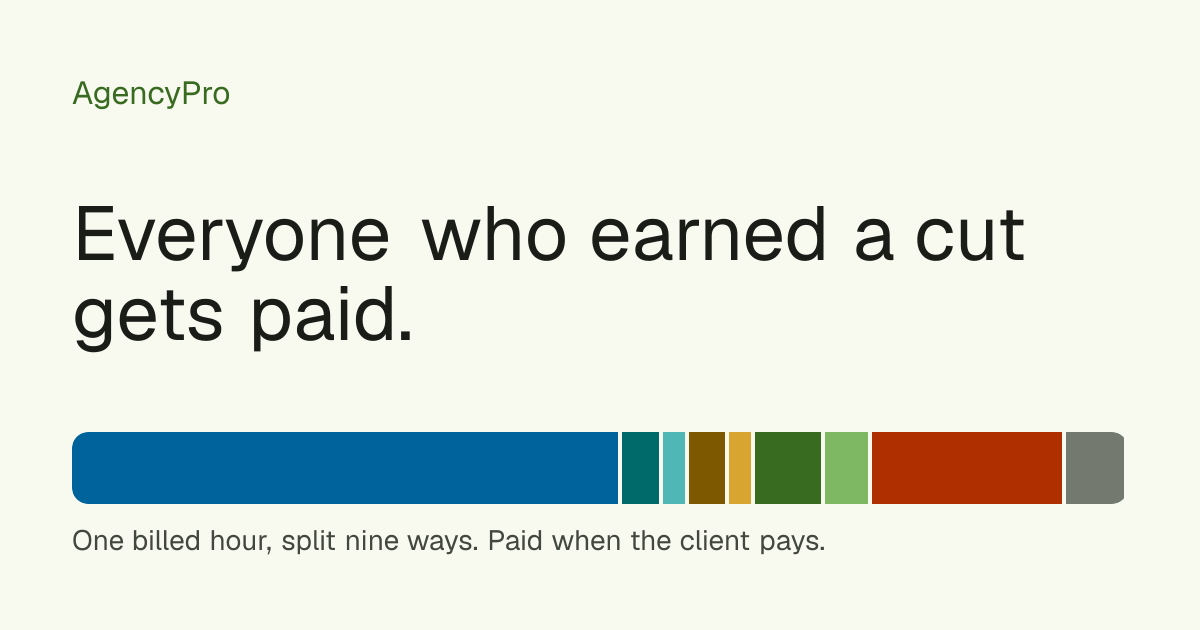
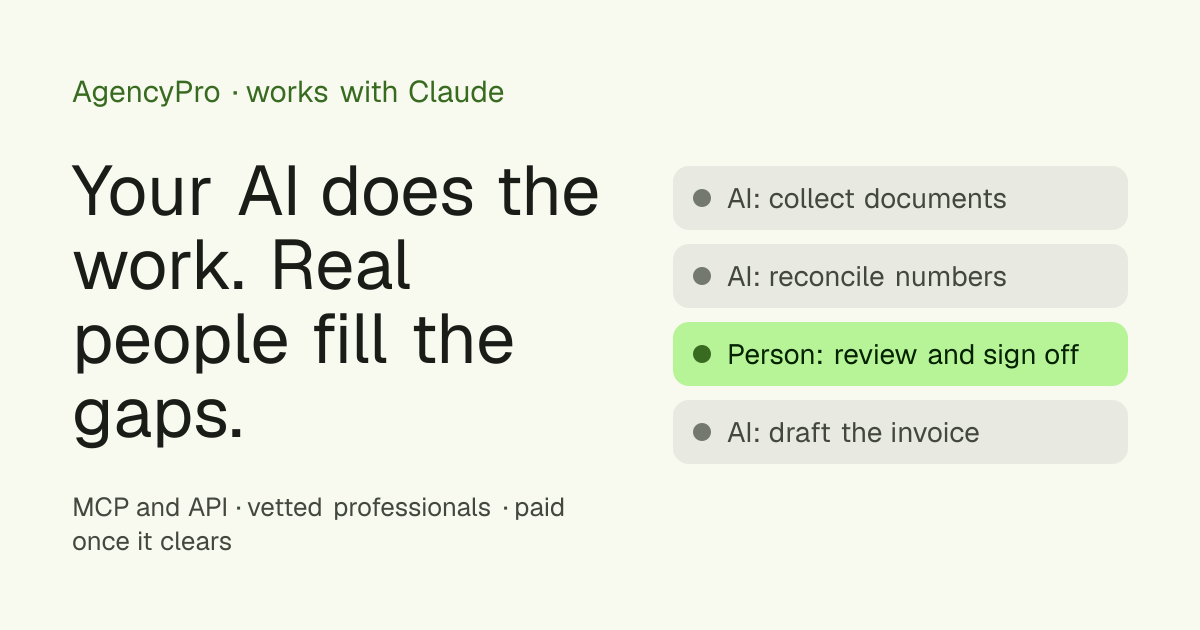
Round 3: positioning around Claude (MCP), the API and real people for human steps

diff --git a/src/app/page.tsx b/src/app/page.tsx
@@ -1,4 +1,5 @@
 import { HeroSplit } from "@/components/hero-split";
+import { WorkflowCard } from "@/components/workflow-card";
 import { MdButton } from "@/components/material";
 import { PayoutPlayground } from "@/components/payout-playground";
 import { STREAMS } from "@/lib/streams";
@@ -12,8 +13,15 @@ const steps = [
   { icon: "check_circle", title: "It clears or it doesn't", body: "If it clears, everyone is paid, for good. If it doesn't, no one is paid and no one owes a thing. You'll never have to pay money back." },
 ];
 
+const humanSteps = [
+  { icon: "send", title: "Your workflow asks", body: "When it reaches a step a person must do, your Claude or your system requests a human step through AgencyPro." },
+  { icon: "badge", title: "A vetted pro takes it", body: "A professional who holds the right credential claims the step and gets the documents and context." },
+  { icon: "fact_check", title: "They decide, on the record", body: "Approve, reject or ask for changes. The decision is recorded with who made it and when." },
+  { icon: "arrow_forward", title: "Your workflow carries on", body: "The answer comes back to your workflow, and the professional's share goes into the same fair payout." },
+];
+
 const perks = [
-  { icon: "handshake", title: "Referrals that pay themselves", body: "Give partners a cut of every hour the client they sent you buys. It's tracked and paid out with no spreadsheets." },
+  { icon: "forum", title: "Bring your own Claude", body: "AgencyPro plugs into the Claude you already use. It acts with your permissions only, and we never run or bill you for the AI." },
   { icon: "visibility_off", title: "Your bench stays yours", body: "Clients see their projects, totals and invoices. Never your team's names, rates or pay." },
   { icon: "verified", title: "Licensed sign-offs, on the record", body: "When a step needs an accountant or attorney, it goes to a real professional and their sign-off is recorded." },
 ];
@@ -37,9 +45,9 @@ export default function Home() {
             AgencyPro
           </a>
           <nav className="md-label-large hidden items-center gap-1 md:flex" aria-label="Sections">
-            <MdButton kind="text" href="#how">How it splits</MdButton>
-            <MdButton kind="text" href="#play">Try it</MdButton>
-            <MdButton kind="text" href="#streams">Who gets paid</MdButton>
+            <MdButton kind="text" href="#humans">Human steps</MdButton>
+            <MdButton kind="text" href="#how">How payouts work</MdButton>
+            <MdButton kind="text" href="#play">Try the split</MdButton>
           </nav>
           <MdButton kind="tonal" href={INVITE} external>Get an invite</MdButton>
         </div>
@@ -49,24 +57,50 @@ export default function Home() {
         <section className="mx-auto grid w-full max-w-6xl items-center gap-12 px-4 pb-20 pt-12 sm:px-6 lg:grid-cols-[1.1fr_1fr] lg:pt-20">
           <div className="min-w-0">
             <p className="md-label-large inline-flex items-center gap-1.5 rounded-lg border border-outline px-3 py-1.5 text-on-surface-variant">
-              <md-icon aria-hidden="true">lock</md-icon> Private beta, by invitation
+              <md-icon aria-hidden="true">hub</md-icon> Works with Claude · MCP and API · Private beta
             </p>
-            <h1 className="md-display-large mt-6 text-balance">Everyone who earned a cut gets paid.</h1>
+            <h1 className="md-display-large mt-6 text-balance">Your AI does the work. Real people fill the gaps.</h1>
             <p className="md-body-large mt-6 max-w-xl text-on-surface-variant text-pretty">
-              AgencyPro splits every billed hour between the people who made it happen: the contractor, the recruiter who found them, the partner who sent the client, your PM and your agency. The client pays one invoice. Every share stays pending until the payment fully clears, then pays out on its own. You&apos;ll never have to pay it back.
+              AgencyPro plugs into Claude through MCP and into your systems through its API. When a workflow reaches a step only a person should do, like a professional review and sign-off, it goes to a vetted human, and the decision comes back on the record. Everyone who worked on it gets paid fairly, and no one ever pays it back.
             </p>
             <div className="mt-8 flex flex-wrap gap-3">
-              <MdButton href="#play" icon="tune">Play with the split</MdButton>
+              <MdButton href="#humans" icon="person_check">See a human step</MdButton>
               <MdButton kind="outlined" href={INVITE} external>Get an invite</MdButton>
             </div>
           </div>
-          <HeroSplit />
+          <WorkflowCard />
         </section>
 
-        <section id="how" className="bg-surface-low py-20">
+        <section id="humans" className="scroll-mt-20 bg-surface-low py-20">
           <div className="mx-auto w-full max-w-6xl px-4 sm:px-6">
-            <Eyebrow>How it splits</Eyebrow>
-            <h2 className="md-display-medium mt-2 max-w-2xl text-balance">Pay-when-paid, for everyone at once.</h2>
+            <Eyebrow>Human steps</Eyebrow>
+            <h2 className="md-display-medium mt-2 max-w-3xl text-balance">When your workflow needs a person, it gets one.</h2>
+            <p className="md-body-large mt-3 max-w-2xl text-on-surface-variant">AI shouldn&apos;t sign off on the books alone. AgencyPro routes those steps to real, vetted professionals and keeps the record.</p>
+            <ol className="mt-10 grid gap-4 sm:grid-cols-2 lg:grid-cols-4">
+              {humanSteps.map((s, i) => (
+                <li key={s.title} className="md-card-outlined flex flex-col gap-3 bg-surface p-6">
+                  <div className="flex items-center justify-between">
+                    <span className="grid size-12 place-items-center rounded-2xl bg-primary-container text-on-primary-container">
+                      <md-icon aria-hidden="true">{s.icon}</md-icon>
+                    </span>
+                    <span className="md-label-large text-on-surface-variant">Step {i + 1}</span>
+                  </div>
+                  <h3 className="md-title-large">{s.title}</h3>
+                  <p className="md-body-medium text-on-surface-variant">{s.body}</p>
+                </li>
+              ))}
+            </ol>
+          </div>
+        </section>
+
+        <section id="how" className="scroll-mt-20 py-20">
+          <div className="mx-auto w-full max-w-6xl px-4 sm:px-6">
+            <Eyebrow>And everyone gets paid fairly</Eyebrow>
+            <h2 className="md-display-medium mt-2 max-w-3xl text-balance">Pending until it clears. Never paid back.</h2>
+            <div className="mt-10 grid items-start gap-8 lg:grid-cols-[1fr_1.1fr]">
+              <p className="md-body-large text-on-surface-variant">Each person who worked on the job, from the contractor to the professional who signed off, gets a share of what the client pays. Every share stays pending until the payment fully clears. Then it clears and everyone is paid, or it doesn&apos;t and no one owes anything.</p>
+              <HeroSplit />
+            </div>
             <ol className="mt-10 grid gap-4 sm:grid-cols-2 lg:grid-cols-4">
               {steps.map((s, i) => (
                 <li key={s.title} className="md-card-outlined flex flex-col gap-3 p-6">

diff --git a/src/components/workflow-card.tsx b/src/components/workflow-card.tsx
@@ -1,0 +1,38 @@
+// A workflow at a glance: AI steps run on their own; the one a person must do goes to a vetted professional.
+type Step = { who: "ai" | "human"; title: string; note: string };
+
+const STEPS: Step[] = [
+  { who: "ai", title: "Collect the client's documents", note: "Your Claude gathers them and checks they're complete." },
+  { who: "ai", title: "Reconcile the numbers", note: "Totals checked against the ledger." },
+  { who: "human", title: "Review and sign off", note: "A vetted professional reviews it. Their decision is recorded." },
+  { who: "ai", title: "Draft the invoice", note: "Ready for your OK. The client sees one total." },
+];
+
+export function WorkflowCard() {
+  return (
+    <div className="md-card p-6" style={{ ["--md-elevation-level" as string]: 2 }}>
+      <md-elevation />
+      <div className="flex items-center justify-between gap-3">
+        <span className="md-label-large text-on-surface-variant">A client workflow</span>
+        <span className="md-label-medium flex items-center gap-1 rounded-lg bg-surface-high px-2 py-1 text-on-surface-variant">
+          <md-icon aria-hidden="true" style={{ ["--md-icon-size" as string]: "16px" }}>hub</md-icon> via MCP
+        </span>
+      </div>
+      <ol className="mt-4 flex flex-col">
+        {STEPS.map((s, i) => (
+          <li key={s.title} className="relative flex gap-4 pb-5 last:pb-0">
+            {i < STEPS.length - 1 && <span className="absolute left-5 top-11 bottom-1 w-px bg-outline-variant" aria-hidden />}
+            <span className={`grid size-10 shrink-0 place-items-center rounded-full ${s.who === "human" ? "bg-primary text-on-primary" : "bg-surface-high text-on-surface-variant"}`}>
+              <md-icon aria-hidden="true">{s.who === "human" ? "person_check" : "smart_toy"}</md-icon>
+            </span>
+            <div className={`min-w-0 flex-1 ${s.who === "human" ? "rounded-xl bg-primary-container p-3 text-on-primary-container" : "pt-1"}`}>
+              <p className="md-title-medium">{s.title}</p>
+              <p className={`md-body-medium mt-0.5 ${s.who === "human" ? "" : "text-on-surface-variant"}`}>{s.note}</p>
+              <p className="md-label-medium mt-1 opacity-80">{s.who === "human" ? "Real person" : "AI"}</p>
+            </div>
+          </li>
+        ))}
+      </ol>
+    </div>
+  );
+}

diff --git a/src/app/layout.tsx b/src/app/layout.tsx
@@ -7,10 +7,10 @@ const sans = Roboto({ variable: "--font-roboto", subsets: ["latin"], weight: ["4
 const mono = Roboto_Mono({ variable: "--font-roboto-mono", subsets: ["latin"], weight: ["400", "500"] });
 
 const SITE = "https://rodmjay.github.io/agency-squared";
-const TITLE = "AgencyPro · Everyone who earned a cut gets paid";
-const OG_ALT = "AgencyPro: one billed hour split between everyone who earned a cut";
+const TITLE = "AgencyPro · Your AI does the work. Real people fill the gaps.";
+const OG_ALT = "AgencyPro: an AI workflow with one step handled by a real person";
 const DESCRIPTION =
-  "AgencyPro splits every billed hour between the contractor, the recruiter, the referral partner, the PM and your agency, and pays each share when the client pays.";
+  "AgencyPro works with Claude through MCP and with your systems through its API. Steps only a person should do go to vetted professionals, and everyone is paid fairly once the payment clears.";
 
 export const metadata: Metadata = {
   metadataBase: new URL(SITE),

diff --git a/ITERATIONS.md b/ITERATIONS.md
@@ -9,3 +9,4 @@ it touches URL state, and a privacy check before it publishes.
 | 2026-11-16 | Round 1: "Send this split" shareable link that opens as a payout receipt, plus link previews | Turns the calculator into something an agency hands to its contractors and partners | Shipped in the first publish |
 | 2026-11-16 | Payout model: pending until the payment fully clears; it clears (everyone paid) or it doesn't (no one paid, nothing owed). No clawbacks; "you'll never have to pay it back" | Product decision on the payout model | Shipped in the first publish |
 | 2026-11-16 | Round 2: the hero card replays one payment: invoice sent, client paid (every share striped as Pending), then Cleared, with shares flipping to Paid one by one; Replay button; static when motion is reduced | Explains the pending-until-cleared model in about five seconds, before anyone touches the calculator. Also fixed: a plain visit with an unrelated query string no longer gets rewritten | Committed; publishes with the next allowed window |
+| 2026-11-16 | Round 3: new positioning. Hero says "Your AI does the work. Real people fill the gaps." with a client workflow card (AI steps plus one human review and sign-off) and a "works with Claude, MCP and API" chip; a new Human steps section; payouts move down as "And everyone gets paid fairly"; new title, description and preview image | The product plugs into Claude and your systems and fills workflow gaps with real people; the fair payout is the proof, not the headline | Committed |
